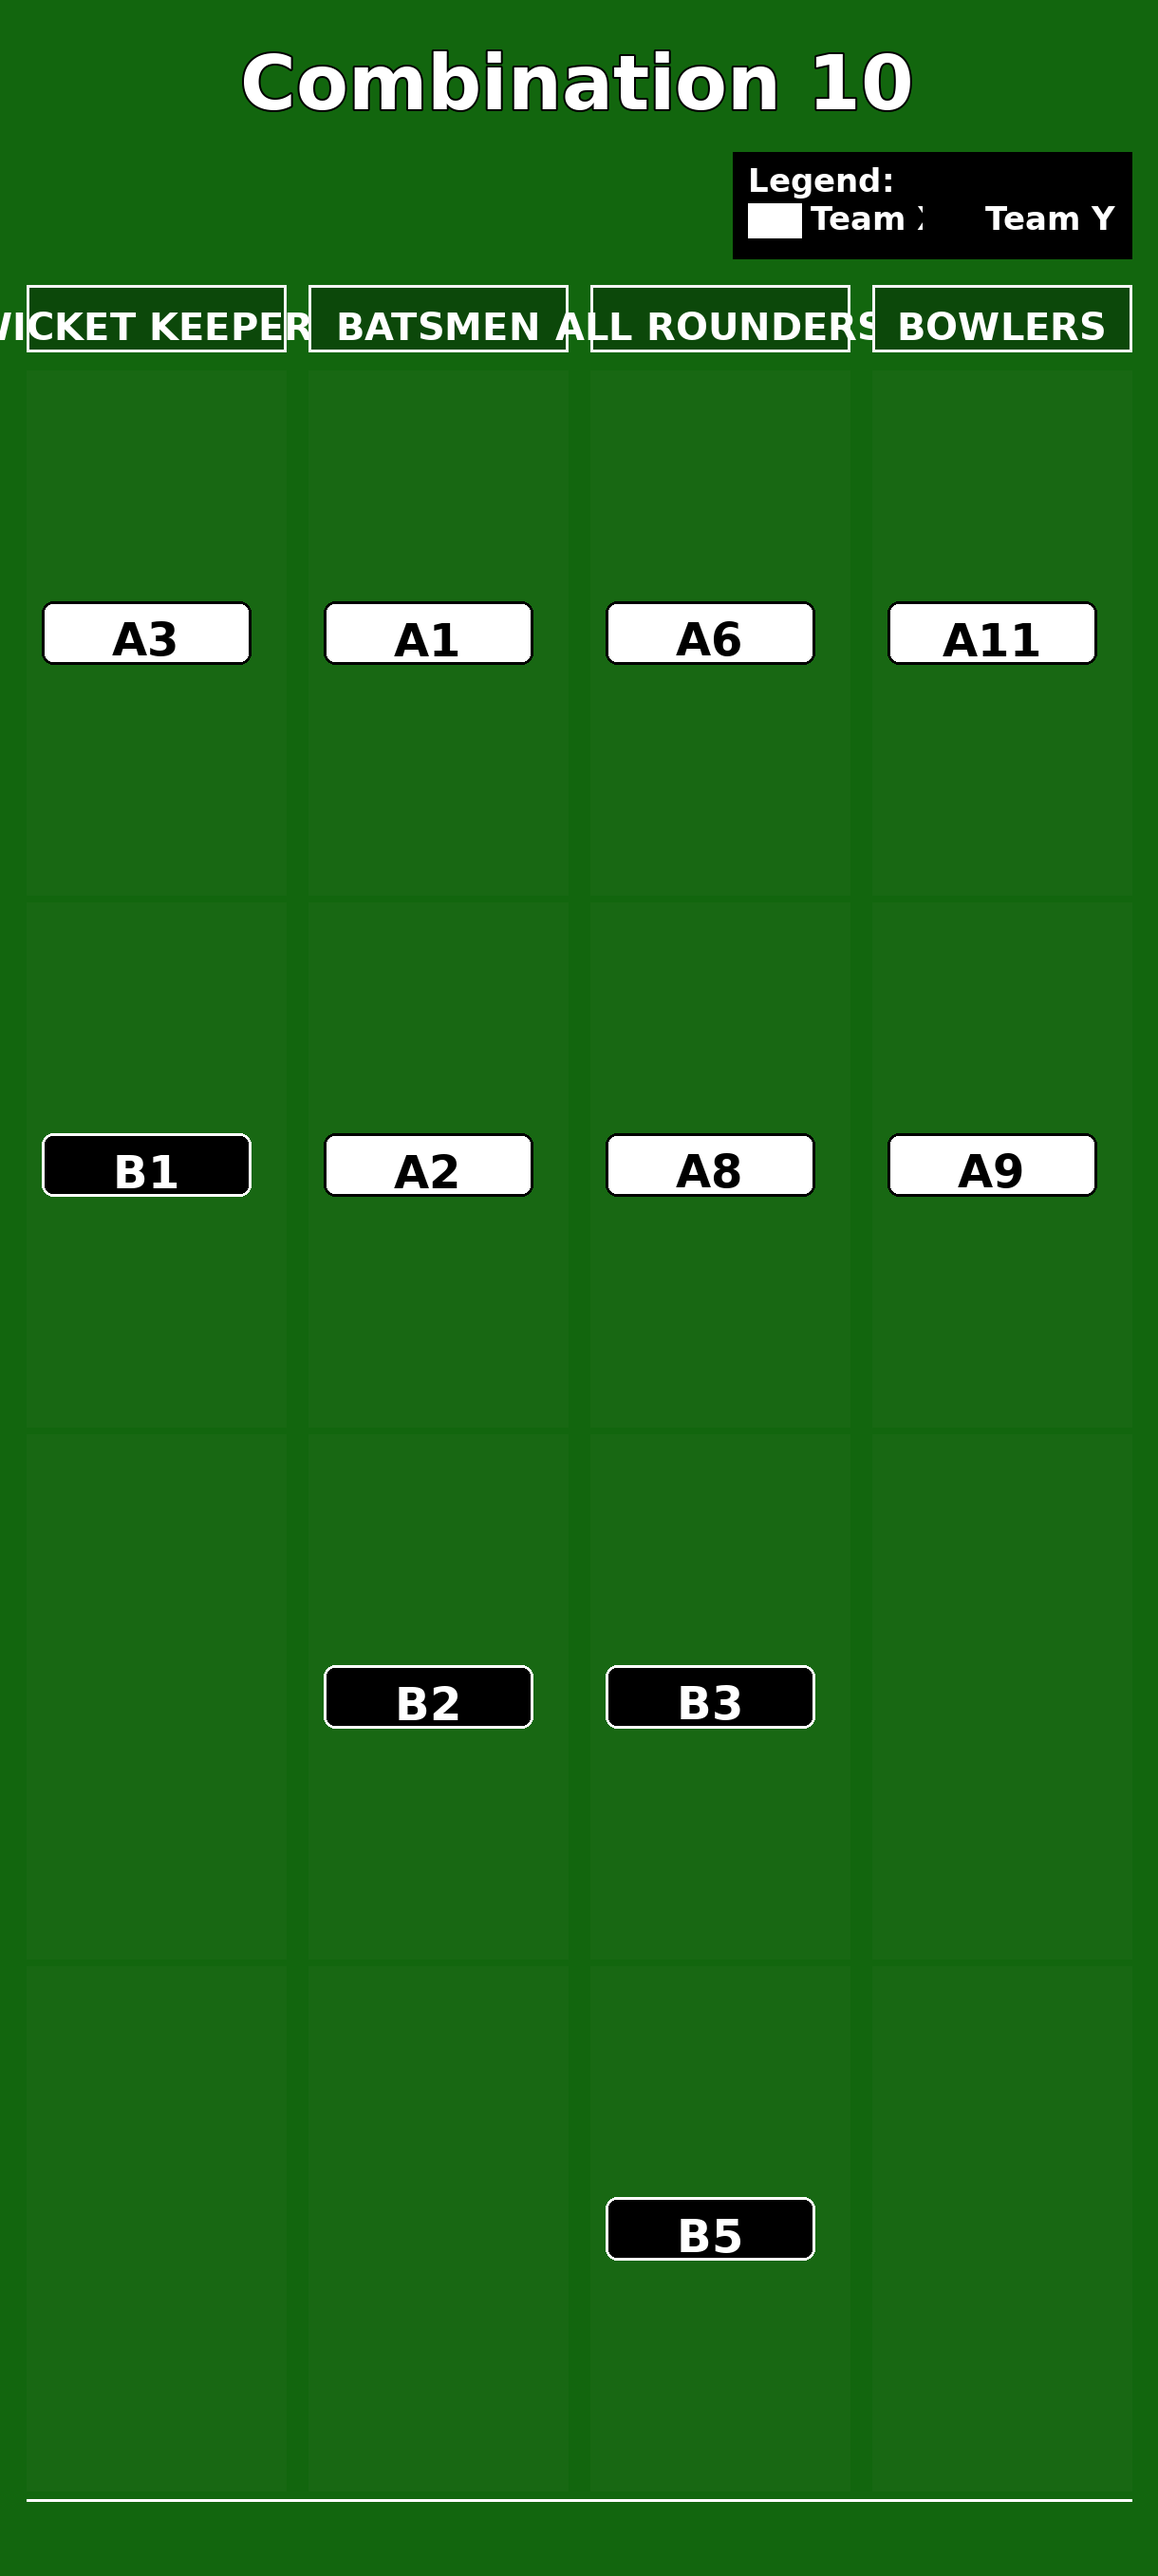
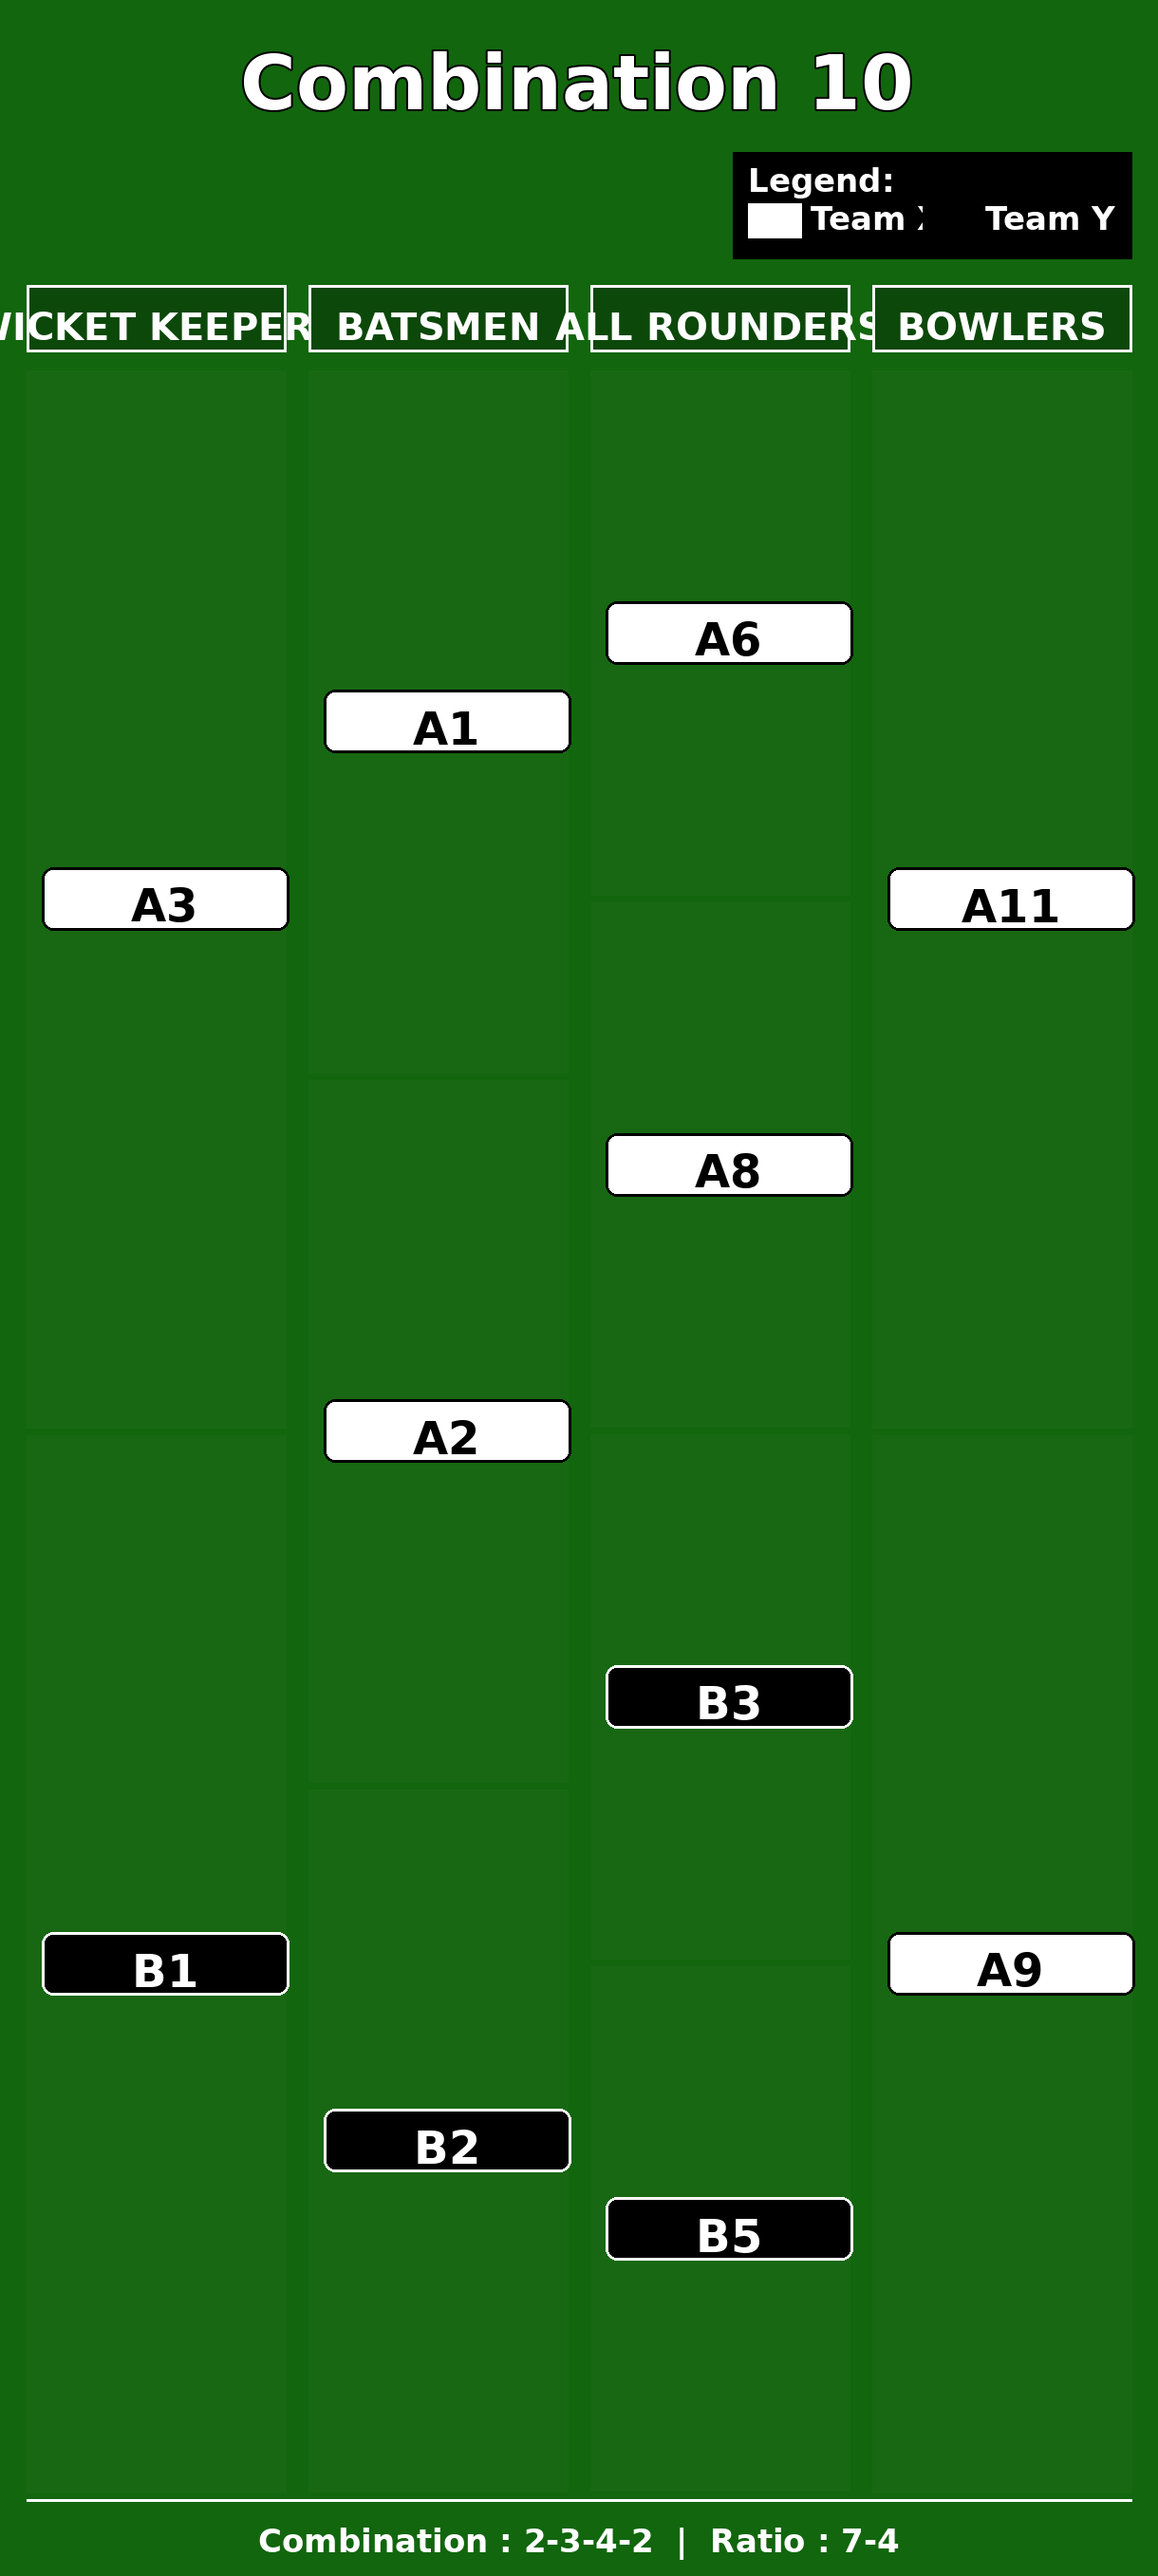
Refactor player rendering to improve layout and add footer information

diff --git a/generate_combinations.py b/generate_combinations.py
@@ -154,42 +154,45 @@ def render_combination_image(
     player_top = header_top + header_height + 20
     player_bottom = CANVAS_HEIGHT - footer_height
     grid_height = player_bottom - player_top
-    max_rows = max(len(comb.roles.get(role, [])) for role in ROLE_ORDER)
-    max_rows = max(max_rows, 1)
 
-    # Row height with minimum for legibility
-    row_height = max(90, grid_height // max_rows)
+    # Render each column independently so players stack under their correct role
+    min_row_h = 90
+    for col_idx, role in enumerate(ROLE_ORDER):
+        x = col_x[col_idx]
+        names = comb.roles.get(role, [])
+        num_rows = max(1, len(names))
+        row_h = max(min_row_h, grid_height // num_rows)
 
-    # Player cells
-    for row in range(max_rows):
-        y = player_top + row * row_height
-        for col_idx, role in enumerate(ROLE_ORDER):
-            x = col_x[col_idx]
-            names = comb.roles.get(role, [])
-            name = names[row] if row < len(names) else ""
-
-            # Draw cell background band
-            draw.rectangle([x, y, x + col_width, y + row_height - 8], fill=(24, 104, 19))
-
-            if not name:
-                continue
+        for r, name in enumerate(names):
+            y = player_top + r * row_h
+            # Column-local background band
+            draw.rectangle([x, y, x + col_width, y + row_h - 8], fill=(24, 104, 19))
 
             team_id = team_lookup.get(name.upper(), "x")
-            # Team-based chip: white background for X, black for Y
-            chip_w, chip_h = 220, 66
+            chip_w, chip_h = 260, 66
             chip_x = x + 16
-            chip_y = y + (row_height - chip_h) // 2 - 4
+            chip_y = y + (row_h - chip_h) // 2 - 4
             chip_fill = (255, 255, 255) if team_id == "x" else (0, 0, 0)
             chip_outline = (0, 0, 0) if team_id == "x" else (255, 255, 255)
             draw.rounded_rectangle([chip_x, chip_y, chip_x + chip_w, chip_y + chip_h], radius=12, fill=chip_fill, outline=chip_outline, width=3)
 
-            # Player text on chip
             text_fill = (0, 0, 0) if team_id == "x" else (255, 255, 255)
             tw, th = _text_size(draw, name, player_font)
             draw.text((chip_x + (chip_w - tw) // 2, chip_y + (chip_h - th) // 2 - 2), name, font=player_font, fill=text_fill)
 
     # Footer divider line
     draw.line([(side_padding, player_bottom), (CANVAS_WIDTH - side_padding, player_bottom)], fill=(255, 255, 255), width=3)
+
+    # Footer information: Combination pattern and optional ratio
+    footer_text = []
+    if comb.formation:
+        footer_text.append(f"Combination : {comb.formation}")
+    if comb.ratio:
+        footer_text.append(f"Ratio : {comb.ratio}")
+    info = "  |  ".join(footer_text)
+    if info:
+        iw, ih = _text_size(draw, info, small_font)
+        draw.text(((CANVAS_WIDTH - iw) // 2, player_bottom + (footer_height - ih) // 2), info, font=small_font, fill=(255, 255, 255))
 
     os.makedirs(os.path.dirname(out_path), exist_ok=True)
     img.save(out_path)
